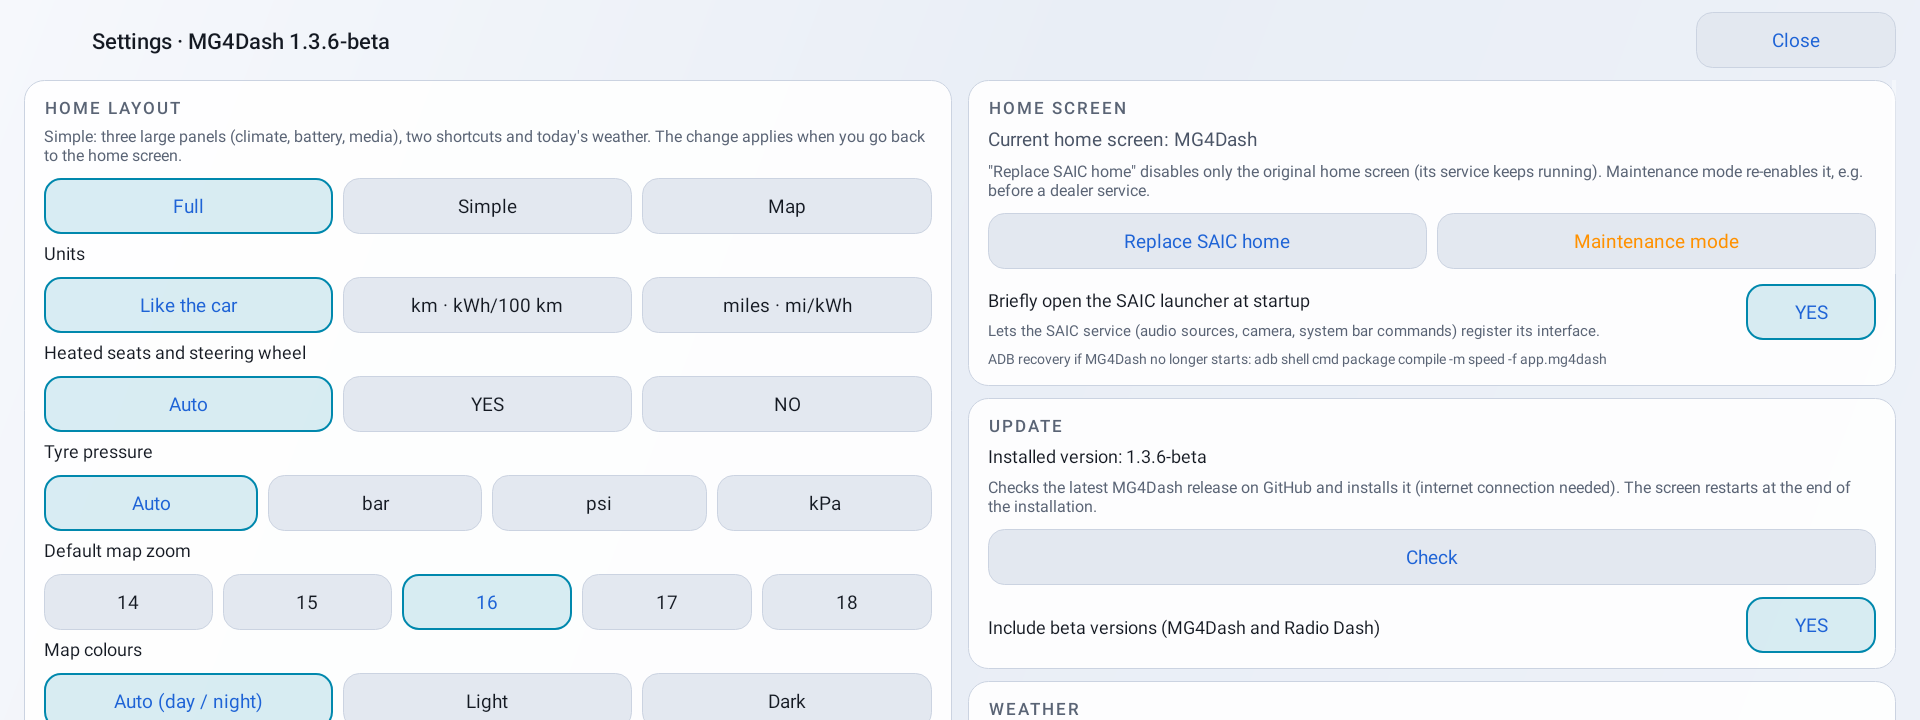
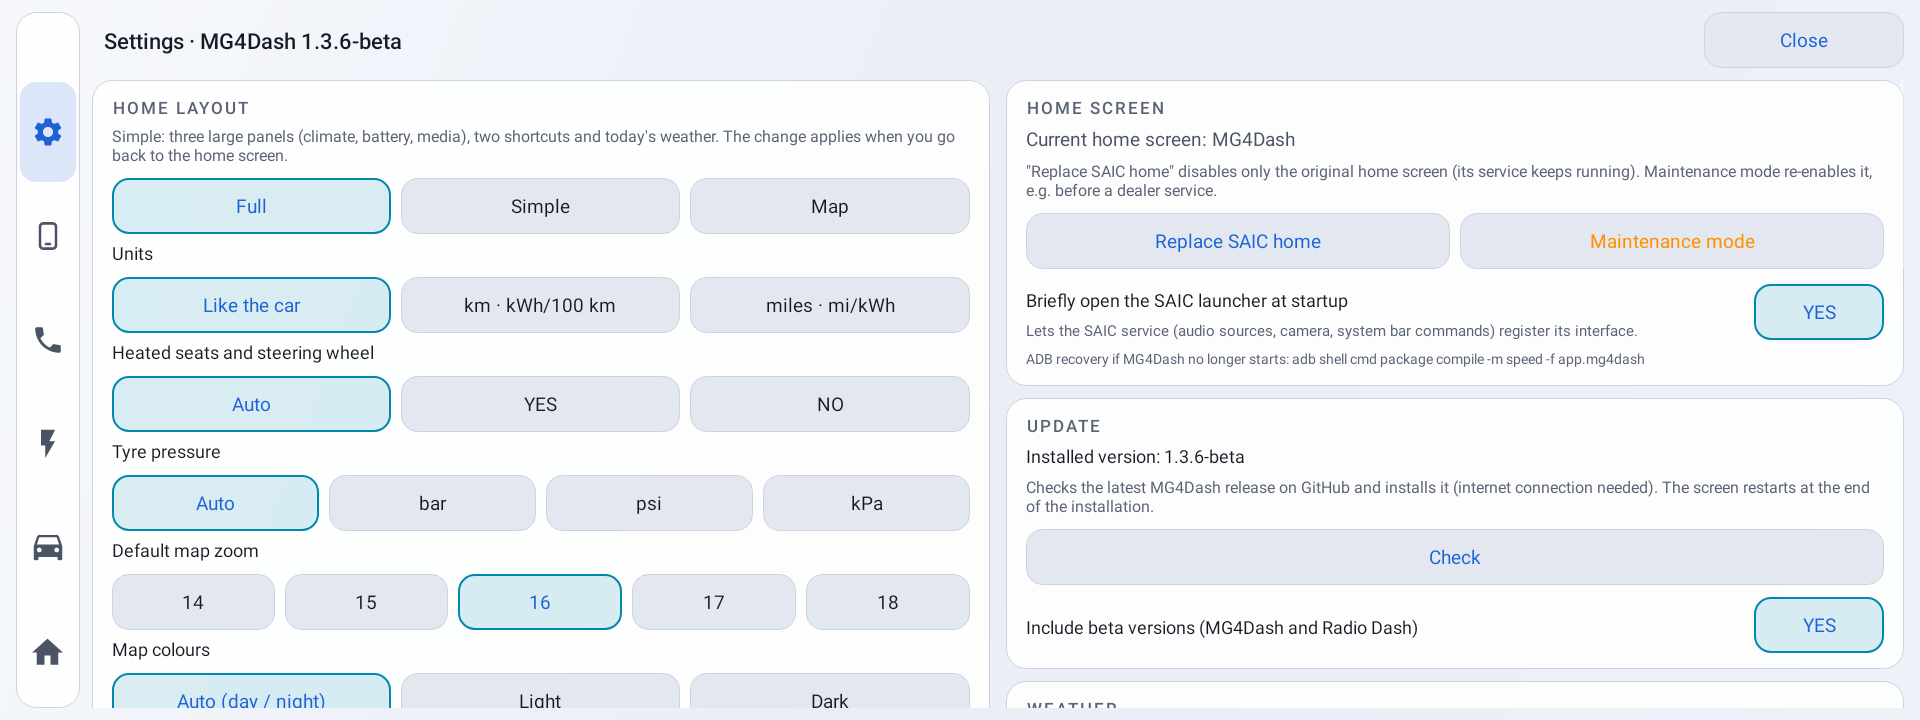
1.3.7-beta: Settings page keeps the dock or the vertical bar like the other pages

diff --git a/app/src/main/java/app/mg4dash/settings/SettingsActivity.kt b/app/src/main/java/app/mg4dash/settings/SettingsActivity.kt
@@ -49,12 +49,13 @@ class SettingsActivity : AppCompatActivity() {
         app.mg4dash.ui.Themes.apply(this)
         // Une seule zone qui défile : deux colonnes de catégories, sous un bandeau fixe
         // (titre, journal, fermer) qui laisse la place au bouton antibrouillards.
-        val root = LinearLayout(this).apply { orientation = LinearLayout.VERTICAL; setPadding(dp(24), dp(12), dp(24), 0) }
+        val root = LinearLayout(this).apply { orientation = LinearLayout.VERTICAL; setPadding(dp(16), dp(12), dp(16), dp(12)) }
+        val vertical = app.mg4dash.ui.Dock.vertical(this)
         val top = LinearLayout(this).apply { orientation = LinearLayout.HORIZONTAL; gravity = Gravity.CENTER_VERTICAL }
         top.addView(TextView(this).apply {
             text = getString(R.string.st_title, BuildConfig.VERSION_NAME); setTextColor(color(R.color.text_value))
             setTextSize(TypedValue.COMPLEX_UNIT_SP, 22f); typeface = Typeface.create("sans-serif-medium", Typeface.NORMAL)
-        }, LinearLayout.LayoutParams(0, -2, 1f).apply { leftMargin = dp(app.mg4dash.ui.Kit.FOG_SAFE_DP - 8) })
+        }, LinearLayout.LayoutParams(0, -2, 1f).apply { leftMargin = if (vertical) dp(12) else dp(app.mg4dash.ui.Kit.FOG_SAFE_DP - 8) })
         top.addView(button(getString(R.string.st_close), R.color.accent_action) { finish() }, LinearLayout.LayoutParams(dp(200), dp(56)))
         root.addView(top, LinearLayout.LayoutParams(-1, -2).apply { bottomMargin = dp(12) })
         val cols = LinearLayout(this).apply { orientation = LinearLayout.HORIZONTAL }
@@ -63,6 +64,10 @@ class SettingsActivity : AppCompatActivity() {
         cols.addView(left, LinearLayout.LayoutParams(0, -2, 1f).apply { rightMargin = dp(8) })
         cols.addView(right, LinearLayout.LayoutParams(0, -2, 1f).apply { leftMargin = dp(8) })
         root.addView(ScrollView(this).apply { isVerticalScrollBarEnabled = true; addView(cols) }, LinearLayout.LayoutParams(-1, 0, 1f))
+        // Même dock (ou barre verticale) que les autres pages
+        val dock = LinearLayout(this)
+        root.addView(dock, LinearLayout.LayoutParams(-1, dp(84)).apply { topMargin = dp(12) })
+        app.mg4dash.ui.Dock.mount(this, root, dock, app.mg4dash.ui.Dock.Page.SETTINGS)
         setContentView(root)
 
         // ════ Colonne gauche : ce qu'on voit à l'écran ════
@@ -82,7 +87,7 @@ class SettingsActivity : AppCompatActivity() {
         text(style, getString(R.string.st_map_theme), 18f, R.color.text_value)
         row(style, *styleButtons(listOf(R.string.st_mode_auto, R.string.st_mode_light, R.string.st_mode_dark), { prefs.mapTheme }) { prefs.mapTheme = it })
         toggle(style, R.string.st_map_offline_switch, R.string.st_map_offline_switch_desc, { prefs.mapOfflineSwitch }) { prefs.mapOfflineSwitch = it }
-        toggle(style, R.string.st_map_vdock, null, { prefs.verticalDock }) { prefs.verticalDock = it; app.mg4dash.ui.Themes.publish(this) }
+        toggle(style, R.string.st_map_vdock, null, { prefs.verticalDock }) { prefs.verticalDock = it; app.mg4dash.ui.Themes.publish(this); recreate() }
         toggle(style, R.string.st_fullscreen, null, { prefs.fullscreen }) { prefs.fullscreen = it; Fullscreen.apply(this) }
         toggle(style, R.string.st_stack_auto, null, { prefs.stackAuto }) { prefs.stackAuto = it }
         toggle(style, R.string.st_climhold, R.string.st_climhold_desc, { prefs.climateHoldEnabled }) { prefs.climateHoldEnabled = it }

diff --git a/app/src/main/java/app/mg4dash/ui/Dock.kt b/app/src/main/java/app/mg4dash/ui/Dock.kt
@@ -29,7 +29,7 @@ import java.util.Locale
  * Appui long sur Accueil : liste des applis ; sur Paramètres : réglages du launcher.
  */
 object Dock {
-    enum class Page { HOME, VEHICLE, CLIMATE, ENERGY, PHONE }
+    enum class Page { HOME, VEHICLE, CLIMATE, ENERGY, PHONE, SETTINGS }
 
     private data class Item(val icon: Int, val label: Int, val page: Page?, val accent: Boolean = false)
 
@@ -40,7 +40,7 @@ object Dock {
         Item(R.drawable.ic_bolt, R.string.dock_energy, Page.ENERGY),
         Item(R.drawable.ic_phone, R.string.dock_phone, Page.PHONE),
         Item(R.drawable.ic_navigation, R.string.dock_aa, null, accent = true),
-        Item(R.drawable.ic_settings, R.string.dock_settings, null),
+        Item(R.drawable.ic_settings, R.string.dock_settings, Page.SETTINGS),
     )
 
     fun build(activity: Activity, dock: LinearLayout, current: Page, simple: Boolean = false) {
@@ -334,7 +334,14 @@ object Dock {
                 return
             }
             // Toucher : réglages MG4Dash ; appui long : réglages de la voiture
-            R.string.dock_settings -> { activity.startActivity(Intent(activity, SettingsActivity::class.java)); return }
+            R.string.dock_settings -> {
+                if (current == Page.SETTINGS) return
+                activity.startActivity(Intent(activity, SettingsActivity::class.java).addFlags(Intent.FLAG_ACTIVITY_NO_ANIMATION))
+                if (current != Page.HOME) activity.finish()
+                @Suppress("DEPRECATION")
+                activity.overridePendingTransition(0, 0)
+                return
+            }
         }
         val page = item.page ?: return
         if (page == current) return
@@ -344,6 +351,7 @@ object Dock {
             Page.CLIMATE -> ClimateActivity::class.java
             Page.ENERGY -> EnergyActivity::class.java
             Page.PHONE -> app.mg4dash.pages.PhoneActivity::class.java
+            Page.SETTINGS -> SettingsActivity::class.java
         }
         // L'accueil (singleTask) referme les pages au-dessus de lui ; entre deux pages, on
         // remplace la page courante pour ne pas empiler l'historique.

diff --git a/app/src/testEmulator/java/app/mg4dash/ScreenshotTest.kt b/app/src/testEmulator/java/app/mg4dash/ScreenshotTest.kt
@@ -38,6 +38,12 @@ class ScreenshotTest {
         shoot(MainActivity::class.java, "home_bottom_bar.png")
     }
 
+    @Test fun settingsBottomBar() {
+        org.robolectric.RuntimeEnvironment.getApplication().getSharedPreferences("mg4launcher", android.content.Context.MODE_PRIVATE)
+            .edit().putBoolean("vertical_dock", false).commit()
+        shoot(SettingsActivity::class.java, "settings_bottom_bar.png")
+    }
+
     @Test fun home() = shoot(MainActivity::class.java, "home.png")
     @Test fun climate() = shoot(ClimateActivity::class.java, "climate.png")
     @Test fun vehicle() = shoot(app.mg4dash.pages.VehicleActivity::class.java, "vehicle.png")
